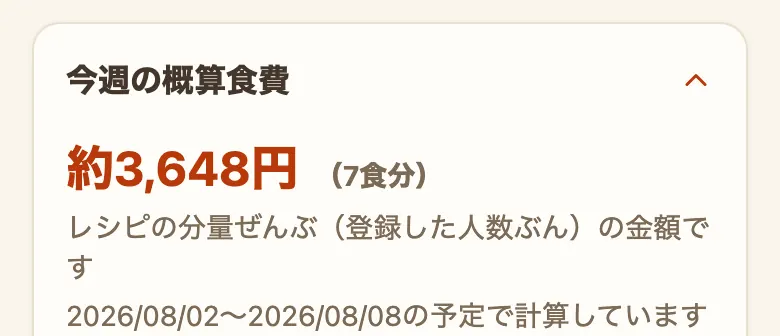
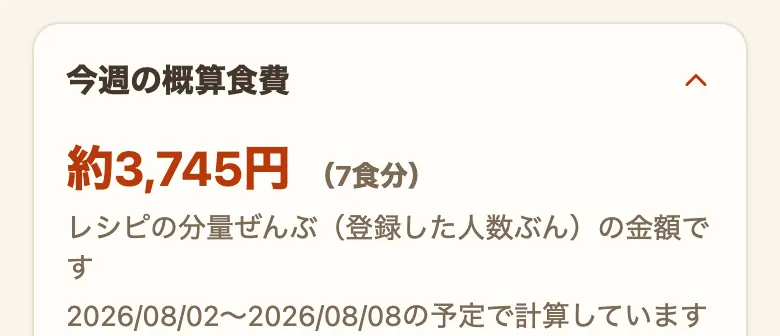
便CZ: about配下の修正一式(LP12件・説明書のCW/CY追随・スクショ6枚撮り直し)
紹介ページ(index.html) オーナー指示12件:
- ヒーローのリードを改行で「登録の入口」と「登録すると使えるもの」に分けた
- 「こんなとき、ありませんか」の3項目を見出しの1行だけにした(補足文を削除)
- 痛み1「前につくったあのレシピ、どこにやったっけ」/ 痛み2「今日のごはん、何カロリー？いくらかかった？」
- 「登録すると、できること」→「登録したレシピで、できること」(アカウント登録との混同回避)
- 調理中に「「タイマー」と声で言っても始められます」を明記(タップ限定にしない)
- 栄養の見出し→「栄養と材料費が自動計算でまるわかり」
- 「計算できなかった分は隠しません」→「計算に入れられなかった材料」(説明書の見出しと同語)
- 「まだまだ、あります」→「献立の提案、買い物メモ、記録をつける。他に機能がたくさん」
- 同セクションに「全部を使う必要はありません。必要な機能だけお使いいただけます」
- 無料側に50品上限を明記(いまは準備期間で上限なし・開始時は事前告知・基本レシピは数えない)
- 「データは、この端末の中に」→「データは、あなたの端末の中に」

使い方ページ(manual.html) 便CW/CYへの追随:
- 数値の「めやす」→「概算」に統一(§1・§4・§5。公的な基準値は「めやす」のまま)
- 「この日の献立ぶん」→「この日の献立」
- 「1日のめやすとくらべる」の並置UI廃止を反映(説明文1行「1日分のめやすは〜」)
- §5に「ごはんを含めて計算する」「食事ごとの内訳(Pro)」「「概算」と「めやす」の考え方」を追加
- §4に時間帯の視覚区分・行頭サムネ・空欄行を閉じる を追加、「この食事の今週分を空にする」
  →「この食事の予定をまとめて消す」(週タブ最下部の折りたたみ)へ改名・移設
- §7に売り場順のカスタム、§11に「まとめて削除する」、§13に無料50品上限と収録レシピの片づけ方
- §3に基本レシピを使わない場合の1行(まとめて削除で消せる・入れ直しで復活・記録は戻らない)

スクリーンショット: nutrition-row / nutrition-open / plan-week-nutrition-row /
plan-week-nutrition-open / plan-week-day / lp/plan-week-free を現UIで撮り直し
(shots-manual.mjs の読み上げ名セレクタが旧文言のままで空振りしていたのも修正。
週の対象日は野菜3桁g・主菜副菜が埋まった日を選ぶようにした)

検証: npx tsc -b / npm run build / npm test / e2e 1022件全通過(4291・console 0件)・
実DOM390pxで該当箇所を目視・4xx/5xxゼロ・禁止語0件

Changed region(s): [[0.1846, 0.4167, 0.5538, 0.5655]]

diff --git a/public/about/manual.html b/public/about/manual.html
@@ -585,7 +585,7 @@
       <li><strong>食材の在庫を持つ</strong>: よく使う食材を「ある・少ない・ない」の3段階でざっくり管理できます</li>
       <li><strong>料理中に使う</strong>: 手順を1つずつ大きく表示し、読み上げ・声での操作・複数同時のタイマーが使えます</li>
       <li><strong>作った記録を残す</strong>: 日付・人数・ひとことメモ・写真を残して、あとから振り返れます</li>
-      <li><strong>数字で見る</strong>: カロリーと野菜量のめやす、献立の概算食費が自動で出ます</li>
+      <li><strong>数字で見る</strong>: カロリーと野菜量の概算、献立の概算食費が自動で出ます</li>
     </ul>
 
     <h3>画面の見取り図</h3>
@@ -727,6 +727,7 @@
       <li>「基本レシピを一覧に表示しない」: 自分で登録したレシピだけを一覧に出したいとき</li>
       <li>「基本レシピを入れ直す」: 消したり編集したりした基本レシピを最初の状態に戻したいとき（自分で編集した基本レシピは上書きされます）</li>
     </ul>
+    <p class="muted">基本レシピを使わないときは、レシピ一覧の「選択」から<a href="#search">まとめて削除</a>もできます。消したあとでも「基本レシピを入れ直す」で戻せます（そのレシピに付けた「作った記録」は戻りません）。</p>
 
     <h3>レシピ集を追加で読み込む</h3>
     <p>レシピ集の配布がある場合には、設定の「レシピ」にある「レシピセットを読み込む」から、そのレシピ集（JSONファイル）を追加で読み込めます。URLからでも、端末に保存したファイルからでも読み込めます。</p>
@@ -763,9 +764,15 @@
     <p>表示は「週区切り」（月曜から日曜まで）と「今日から7日間」から選べます。「表示する食事（朝食・昼食・夕食）」で、使う食事だけを出せます。</p>
 
     <figure class="shot" style="--w:390px">
-      <img src="/about/img/manual/plan-week-day.webp" width="780" height="660" loading="lazy" decoding="async" alt="献立の「週」タブの1日ぶんのカード。日付と「今日」の印、夕食の主菜・副菜、料理を追加のボタン、その日の栄養のめやすの行、この日のメモの欄が並んでいる">
+      <img src="/about/img/manual/plan-week-day.webp" width="780" height="728" loading="lazy" decoding="async" alt="献立の「週」タブの1日ぶんのカード。日付と「今日」の印、色のついた夕食の囲みの中に主菜・副菜の行と料理を追加のボタン、その下にその日の献立のカロリー・塩分・野菜量の行、この日のメモの欄が並んでいる">
       <figcaption>「週」タブの1日ぶんのカード。サイコロのマークでその行だけ振り直せます</figcaption>
     </figure>
+
+    <ul class="feature-list">
+      <li><strong>朝食・昼食・夕食の見分け</strong>: 食事ごとに囲みで区切り、左に立てる線と地の色の濃さを変えています（夕食がいちばん濃い色です）</li>
+      <li><strong>行の先頭の小さな絵</strong>: 写真を登録したレシピは写真、写真のないレシピは料理のアイコンが出ます</li>
+      <li><strong>空いている行を閉じる</strong>: まだ何も入れていない主菜・副菜の行は「×」で閉じられます。献立は1件も消えず、「＋料理を追加」で戻せます</li>
+    </ul>
 
     <p><strong>「まとめて献立を立てる」</strong>を押すと、今週のまだ決まっていない日に主菜と副菜をまとめて入れます。</p>
     <ul class="feature-list">
@@ -775,7 +782,7 @@
     </ul>
     <p><strong>副菜は主菜のジャンル（和食・洋食・中華）に合わせて選びます。</strong>合うジャンルの副菜が無いときは、別ジャンルの品を入れて埋め、その品に「主菜と別ジャンル」と表示します。タップすると理由の説明が出ます。</p>
     <p class="muted">丼・麺・カレー・鍋の日は副菜を入れず、「一品で食事が完結する料理のため、副菜は入れていません（必要なら選べます）」と出ます。</p>
-    <p class="muted">朝食だけ、昼食だけをまとめて消したいときは「この食事の今週分を空にする」で食事（朝食・昼食・夕食）を選び、「空にする」を押します。消える件数と、ほかの食事の予定・作った記録が残ることを確かめてから実行できます。</p>
+    <p class="muted">朝食だけ、昼食だけをまとめて消したいときは、「週」タブのいちばん下にある<strong>「この食事の予定をまとめて消す」</strong>を開き、食事（朝食・昼食・夕食）を選んで「空にする」を押します。手で入れた予定も自動で入った予定も消えます。消える件数と、ほかの食事の予定・作った記録が残ることを確かめてから実行できます。</p>
 
     <h3>先週のくり返しと、マイ献立テンプレ</h3>
     <ul class="feature-list">
@@ -820,38 +827,49 @@
     <h2><span class="sec__num">5</span>栄養と食費</h2>
 
     <h3>無料で見られるのはカロリーと野菜量です</h3>
-    <p>レシピ詳細の「栄養価のめやす」の行に、その料理1食あたりの概算のエネルギー（kcal）が出ています。タップすると概算の野菜量（g）や注記も開きます。</p>
+    <p>レシピ詳細の「栄養価の概算」の行に、その料理1食あたりの概算のエネルギー（kcal）が出ています。タップすると概算の野菜量（g）や注記も開きます。</p>
 
     <figure class="shot" style="--w:390px">
-      <img src="/about/img/manual/nutrition-row.webp" width="780" height="184" loading="lazy" decoding="async" alt="レシピ詳細の「栄養価のめやす（4人分レシピの1食あたり）」の1行。エネルギーのkcalが出ていて、右端に開くための矢印が付いている">
-      <figcaption>レシピ詳細の「栄養価のめやす」の行（無料でお使いいただける表示）</figcaption>
+      <img src="/about/img/manual/nutrition-row.webp" width="780" height="184" loading="lazy" decoding="async" alt="レシピ詳細の「栄養価の概算（4人分レシピの1食あたり）」の1行。エネルギーのkcalが出ていて、右端に開くための矢印が付いている">
+      <figcaption>レシピ詳細の「栄養価の概算」の行（無料でお使いいただける表示）</figcaption>
     </figure>
 
-    <p>献立の「週」タブでは、各日のカードと週まとめに「この日の献立ぶん（1人分）」として、概算の約◯kcal・野菜約◯gが出ます。ここまでは無料でお使いいただけます。塩分相当量をふくむ8項目の表示は、Pro版の機能です。</p>
+    <p>献立の「週」タブでは、各日のカードと週まとめに「この日の献立（1人分）」として、概算の約◯kcal・野菜約◯gが出ます。ここまでは無料でお使いいただけます。塩分相当量をふくむ8項目の表示は、Pro版の機能です。</p>
 
     <figure class="shot" style="--w:390px">
-      <img src="/about/img/manual/plan-week-nutrition-row.webp" width="780" height="136" loading="lazy" decoding="async" alt="献立の「週」タブの1行。「この日の献立ぶん（1人分）」として、カロリーと野菜量が並んで出ている">
+      <img src="/about/img/manual/plan-week-nutrition-row.webp" width="780" height="136" loading="lazy" decoding="async" alt="献立の「週」タブの1行。「この日の献立（1人分）」として、カロリーと野菜量が並んで出ている">
       <figcaption>献立の「週」タブに出る1日ぶんの行（無料でお使いいただける表示）</figcaption>
     </figure>
 
     <h3>Pro版で開くと8項目が並びます<span class="pro-tag">Pro版</span></h3>
 
     <figure class="shot" style="--w:390px">
-      <img src="/about/img/manual/nutrition-open.webp" width="780" height="940" loading="lazy" decoding="async" alt="レシピ詳細の栄養価のめやすを開いた画面。エネルギー・たんぱく質・脂質・炭水化物・食物繊維・鉄・カルシウム・食塩相当量・野菜が、1人分と全量の2列で並んでいる">
-      <figcaption>Pro版で開いた「栄養価のめやす」。1人分と全量が並びます</figcaption>
+      <img src="/about/img/manual/nutrition-open.webp" width="780" height="940" loading="lazy" decoding="async" alt="レシピ詳細の栄養価の概算を開いた画面。エネルギー・たんぱく質・脂質・炭水化物・食物繊維・鉄・カルシウム・食塩相当量・野菜が、1人分と全量の2列で並んでいる">
+      <figcaption>Pro版で開いた「栄養価の概算」。1人分と全量が並びます</figcaption>
     </figure>
 
     <figure class="shot" style="--w:390px">
-      <img src="/about/img/manual/plan-week-nutrition-open.webp" width="780" height="800" loading="lazy" decoding="async" alt="献立の「週」タブで栄養のめやすを開いた画面。8項目の下に「1日のめやすとくらべる」として、塩分と野菜の数値がめやすと並べて出ている">
-      <figcaption>献立の栄養パネル。「1日のめやすとくらべる」で数字を並べて出します</figcaption>
+      <img src="/about/img/manual/plan-week-nutrition-open.webp" width="780" height="932" loading="lazy" decoding="async" alt="献立の「週」タブで栄養の概算を開いた画面。8項目と野菜が縦に並び、その下に「ごはん1杯（150g）を含めて計算する」のチェック、「1日分のめやすは、塩分7.5g（男性）・6.5g（女性）、野菜350gです。」の1行が続いている">
+      <figcaption>献立の栄養パネルをPro版で開いたところ。1日分のめやすは説明文で添えます</figcaption>
     </figure>
 
-    <h3>「めやす」の考え方</h3>
+    <p>朝食・昼食・夕食のうち2つ以上に料理が入っている日は、8項目の下に<strong>「食事ごとの内訳（1人分）」</strong>が出ます。1日の合計が、どの食事のぶんなのかを分けて見られます。</p>
+    <p class="muted">作った記録には食事（朝食・昼食・夕食）の区別がないため、過ぎた日には内訳が出ません。</p>
+
+    <h3>ごはんを含めて計算する</h3>
+    <p>献立に登録するのがおかずだけだと、合計は主食のぶん小さく出ます。栄養パネルを開いて<strong>「ごはん1杯（◯g）を含めて計算する」</strong>にチェックを入れると、料理の入っている食事にごはん1杯ぶんの栄養と材料費を足した概算になります。最初はOFFで、切り替えると次からも覚えています。</p>
     <ul class="feature-list">
-      <li>数値は材料と分量から自動計算した<strong>めやす</strong>です。調理による変化は反映していないため、実際の栄養価とは異なります。同じ食材でも品種・大きさ・部位で成分は変わります</li>
+      <li>丼・麺・カレー・鍋のように主食を含む料理が主菜の食事には、ごはんを足しません</li>
+      <li>「今週の概算食費」にも同時に効き、ごはんのぶんを含めた金額に「ごはん◯杯ぶん（約◯円）を含めた金額です」と添えて出します</li>
+    </ul>
+
+    <h3>「概算」と「めやす」の考え方</h3>
+    <p>自動計算した数字は<strong>「概算」</strong>、公的な基準の数字は<strong>「めやす」</strong>と書き分けています。</p>
+    <ul class="feature-list">
+      <li>数値は材料と分量から自動計算した<strong>概算</strong>です。調理による変化は反映していないため、実際の栄養価とは異なります。同じ食材でも品種・大きさ・部位で成分は変わります</li>
       <li><strong>野菜量</strong>は、材料に書かれた分量をそのままグラムに換算して合計した<strong>概算</strong>です（皮や種を除いた可食部の重さには直していません）。数に入れられない材料があるぶん、実際より少なめに出ることがあります</li>
-      <li>献立の栄養パネルでは、野菜量について公的な基準の数値を<strong>並べて</strong>表示します（「野菜 ◯g ／ めやす 350g」。Pro版では塩分にも同じ形のめやすが付きます）。<strong>数字を並べるだけ</strong>で、足りない・摂りすぎといった判定はしません。色で良し悪しを示すこともしません</li>
-      <li>献立の合計に出るのは<strong>献立に登録した料理ぶんだけ</strong>です。ごはん・飲みもの・おやつ・外食は入っていません。3食のうち夕食だけを登録している場合は、その1食ぶんの合計を1日のめやすと並べていることになります</li>
+      <li>献立の栄養パネルには、公的な基準の数値を<strong>説明文の1行</strong>で添えます（「1日分のめやすは、野菜350gです」。Pro版では塩分のめやすも入ります）。<strong>基準の数字を書くだけ</strong>で、足りない・摂りすぎといった判定はしません。色で良し悪しを示すこともしません</li>
+      <li>献立の合計に出るのは<strong>献立に登録したレシピぶんだけ</strong>です。飲みもの・おやつ・外食は入っていません（ごはんは「ごはん1杯を含めて計算する」にチェックを入れたときだけ入ります）。3食のうち夕食だけを登録している場合は、その1食ぶんの合計になります</li>
     </ul>
     <p class="muted">成分値の出典は日本食品標準成分表、めやすの出典は「日本人の食事摂取基準（2025年版）（厚生労働省）」と「健康日本21（第三次）（厚生労働省）」です。いずれも健康な大人の一般的なめやすで、治療中の方・妊娠中の方は主治医や管理栄養士の指示に従ってください。</p>
     <p class="muted">ビタミンは、調理による損失が大きく材料からの計算では実際と大きくズレやすいため表示していません。</p>
@@ -925,6 +943,10 @@
 
     <h3>売り場順に自動で並びます</h3>
     <p>買い物メモは、一般的なスーパーの導線に合わせて「野菜・きのこ → 肉・魚介 → 豆腐・卵・乳 → 主食・粉 → 調味料 → その他」の順に自動で並びます。並べ替えの操作は要りません。</p>
+
+    <h4>いつも回る順番に合わせる</h4>
+    <p>お店によって売り場の並びは違うので、6つのまとまりの順番は入れ替えられます。買い物メモの<strong>「売り場順を変える」</strong>を押すと、設定の「買い物メモの売り場順」へ移ります。上下のボタンで並べ替え、「既定の順番に戻す」で最初の順番に戻せます。</p>
+    <p class="muted">入れ替えるのはまとまりの順番だけで、どの食材がどのまとまりに入るかは変わりません。</p>
 
     <figure class="shot" style="--w:390px">
       <img src="/about/img/manual/shopping.webp" width="780" height="1080" loading="lazy" decoding="async" alt="買い物メモの画面。キャベツ・ピーマン・にんにく・玉ねぎ・長ねぎ・しょうがと野菜が続いたあとに豚バラ薄切り肉が並び、売り場順になっている">
@@ -1096,6 +1118,10 @@
     </ul>
     <p class="muted">カロリー順の並べ替えは無料で使えます。たんぱく質が多い順・塩分が低い順などはPro版の機能です。</p>
 
+    <h3>まとめて削除する</h3>
+    <p>「レシピ」タブの<strong>「選択」</strong>を押すと選択モードになり、レシピをタップ（長押しでも選べます）して複数選べます。「全選択」「選択解除」も使えます。選び終わったら「選択したレシピ◯品を削除」を押します。</p>
+    <p>確認では、<strong>消えるもの</strong>（レシピ・作った記録とその写真・献立の予定・今日の献立）と<strong>残るもの</strong>（ほかのレシピ・買い物メモ・食材の在庫）を、それぞれ件数つきでお伝えします。基本レシピが入っているときは、設定の「基本レシピを入れ直す」で戻せることも一緒に出ます。</p>
+
     <h3>お気に入りとNG食材</h3>
     <p>レシピ詳細のハートで「お気に入りに追加」できます。ホームの条件チップや一覧の絞り込みから、お気に入りだけを見られます。</p>
     <p>設定の「NG食材（アレルギー・苦手）」に食材を登録すると、それを含むレシピに警告マークが付きます（「豚」で「豚肉」「豚バラ」もヒットします）。一覧から隠すこともできます。</p>
@@ -1198,7 +1224,7 @@
 
     <h3>無料で使えること</h3>
     <ul class="feature-list">
-      <li>収録レシピ100品以上</li>
+      <li>収録レシピ100品以上（使わないときは<a href="#search">まとめて削除</a>で消せます。「基本レシピを入れ直す」で戻せます）</li>
       <li>レシピの登録（手入力・まとめて入力・テキスト貼り付け・URLから取り込む・写真）</li>
       <li>「日」「週」の献立、まとめて献立を立てる、先週のコピー、マイ献立テンプレ、日付メモ、週の献立表の印刷・画像保存</li>
       <li>買い物メモ・食材の在庫</li>
@@ -1208,9 +1234,14 @@
       <li>バックアップの書き出しと読み込み</li>
     </ul>
 
+    <p class="note">
+      <strong>無料で登録できるレシピは50品までです</strong>
+      いまは準備期間のため、上限をかけていません。上限を設けるときは、事前にこのページと紹介ページでお知らせします。最初から入っている基本レシピは、この50品に数えません。
+    </p>
+
     <h3>Pro版（買い切り）で使えるようになること</h3>
     <ul class="feature-list">
-      <li><strong>レシピの登録数の上限なし</strong>（いまは無料でも登録できる件数に上限はありません。将来上限を設ける場合は、事前にこのページと紹介ページでお知らせします）</li>
+      <li><strong>レシピの登録数の上限なし</strong>（無料の50品の上限がなくなり、何品でも登録できます）</li>
       <li><strong>栄養価の8項目表示</strong>（無料のカロリーに加えて、たんぱく質・脂質・炭水化物・食物繊維・鉄・カルシウム・食塩相当量）と、「栄養価で探す」の並べ替え</li>
       <li><strong>月間の献立</strong>（カレンダー表示・未定の日をまとめて提案・期間の栄養と食費・1か月分の献立表の印刷・画像保存）</li>
       <li><strong>並行調理ナビ</strong></li>

diff --git a/public/about/index.html b/public/about/index.html
@@ -246,15 +246,11 @@
     border-radius: 12px;
     padding: 12px 14px;
   }
+  /* 2026-08-02 オーナー指示: 各項目は見出しの1行だけにした(補足文は置かない) */
   .pains b {
     display: block;
-    margin-bottom: 4px;
     font-size: 15px;
     color: var(--accent-ink);
-  }
-  .pains span {
-    font-size: 14px;
-    color: var(--text-muted);
   }
 
   /* ===== 網羅グリッド(献立まわりだけ大きい1枠) ===== */
@@ -411,7 +407,7 @@
   <p class="top-label">ブラウザで開くだけ。インストールも会員登録もいりません</p>
 
   <h1>レシピを集めて登録。<br>できることが増える。</h1>
-  <p class="lead">ネットで見つけたレシピはURLを貼るだけ。家で作ってきた味は、手入力やまとめて入力で。うちレシピに登録すると、調理中の大きな手順表示・カロリーと材料費の概算・献立と買い物メモまで、そのレシピで使えるようになります。</p>
+  <p class="lead">ネットで見つけたレシピはURLを貼るだけ。家で作ってきた味は、手入力やまとめて入力で。<br>うちレシピに登録すると、調理中の大きな手順表示・カロリーと材料費の概算・献立と買い物メモまで、そのレシピで使えるようになります。</p>
   <ul class="three-zero">
     <li>広告なし</li>
     <li>会員登録なし</li>
@@ -429,18 +425,9 @@
   <section class="sec">
     <h2>こんなとき、ありませんか</h2>
     <ul class="pains">
-      <li>
-        <b>作りたいレシピが、また探すところから</b>
-        <span>ブックマークやリンクはたまるのに、作りたい日に限って、どれだったか分からなくなる。</span>
-      </li>
-      <li>
-        <b>いくらかかるのか、あとになって分かる</b>
-        <span>今日の1食がいくらぐらいで、どれくらいのカロリーなのかは、作ってからでないと見当がつかない。</span>
-      </li>
-      <li>
-        <b>手が濡れていて、スマホにさわれない</b>
-        <span>画面はすぐ暗くなるし、文字は小さいし、いま何番目の手順だったかを見失う。</span>
-      </li>
+      <li><b>前につくったあのレシピ、どこにやったっけ</b></li>
+      <li><b>今日のごはん、何カロリー？いくらかかった？</b></li>
+      <li><b>手が濡れていて、スマホにさわれない</b></li>
     </ul>
     <p class="muted">うちレシピは、レシピを1か所に登録するところから始めて、この3つをまとめて引き受けます。</p>
   </section>
@@ -476,7 +463,7 @@
   </section>
 
   <section class="sec">
-    <p class="eyebrow">登録すると、できること 1</p>
+    <p class="eyebrow">登録したレシピで、できること 1</p>
     <h2>調理中に、見やすい。</h2>
     <p>登録したレシピは、調理中モードで開けます。手順が1つずつ大きな文字で出るので、少し離れたところからでも読めます。</p>
 
@@ -493,8 +480,8 @@
 
     <ul class="feature-list">
       <li><strong>手順の拡大表示</strong>: 1画面に1手順。いま何番目かが分かります</li>
-      <li><strong>タップでタイマー</strong>: 手順の中の「15分」を押すとタイマーが始まります。煮ている間に別のタイマーも足せます</li>
-      <li><strong>声で操作・読み上げ</strong>: 「次」と言うと次の手順へ進みます。手順を読み上げることもできます</li>
+      <li><strong>タイマー</strong>: 手順の中の「15分」を押すとタイマーが始まります。「タイマー」と声で言っても始められます。煮ている間に別のタイマーも足せます</li>
+      <li><strong>声で操作・読み上げ</strong>: 「次」で次の手順へ、「タイマー」で時間をはかります。手順を読み上げることもできます</li>
       <li><strong>画面が暗くならない</strong>: 調理中モードの間は、画面の自動消灯を止めます</li>
     </ul>
     <a class="more" href="/about/manual.html#cookmode">調理中モードをくわしく →</a>
@@ -502,8 +489,8 @@
   </section>
 
   <section class="sec">
-    <p class="eyebrow">登録すると、できること 2</p>
-    <h2>栄養と材料費が、自動でそろう。</h2>
+    <p class="eyebrow">登録したレシピで、できること 2</p>
+    <h2>栄養と材料費が自動計算でまるわかり</h2>
     <p>材料を入れておくと、1食あたりのカロリーと材料費が概算で出ます。作る前に、だいたいの数字が分かります。</p>
 
     <figure class="shot" style="--w: 390px;">
@@ -511,7 +498,7 @@
       <figcaption>材料費は全体と1食あたりの両方が出ます</figcaption>
     </figure>
     <figure class="shot" style="--w: 390px;">
-      <img src="/about/img/manual/nutrition-row.webp" width="780" height="176" loading="lazy" decoding="async" alt="レシピ詳細の「栄養価のめやす（4人分レシピの1食あたり）: 563kcal」の1行">
+      <img src="/about/img/manual/nutrition-row.webp" width="780" height="184" loading="lazy" decoding="async" alt="レシピ詳細の「栄養価の概算（4人分レシピの1食あたり）: 563kcal」の1行">
       <figcaption>カロリーは1食あたりで出ます</figcaption>
     </figure>
 
@@ -519,15 +506,16 @@
       <li><strong>カロリーの概算</strong>: 文部科学省「日本食品標準成分表」の数値をもとに計算します</li>
       <li><strong>野菜量の概算</strong>: 献立に入れた料理から、その日の野菜のグラム数も出ます</li>
       <li><strong>材料費の概算</strong>: 食材の価格から計算します。価格は自分の買っている値段に書き換えられます</li>
-      <li><strong>計算できなかった分は隠しません</strong>: 数えられなかった材料がある料理は、その旨を添えて出します</li>
+      <li><strong>計算に入れられなかった材料</strong>: 数えられなかった材料がある料理は、その旨を添えて出します</li>
     </ul>
     <a class="more" href="/about/manual.html#nutrition">栄養と食費をくわしく →</a>
     <p class="muted" style="margin-top: 10px;">数字はどれも概算です。実際の食材や分量によって変わります。</p>
   </section>
 
   <section class="sec">
-    <p class="eyebrow">登録すると、できること 3</p>
-    <h2>まだまだ、あります。</h2>
+    <p class="eyebrow">登録したレシピで、できること 3</p>
+    <h2>献立の提案、買い物メモ、記録をつける。他に機能がたくさん</h2>
+    <p>全部を使う必要はありません。必要な機能だけお使いいただけます。</p>
 
     <div class="grid">
       <div class="wide">
@@ -535,7 +523,7 @@
         <p>「日」「週」の献立を組めます。決まっていない日は、まとめて提案させることもできます。献立に入れた料理の材料は買い物メモに集まり、スーパーの売り場順に並びます。在庫で「ある」にした食材は下書きに出ないので、二度買いを避けられます。週の概算食費も出ます。</p>
         <div class="shots" style="margin-top: 10px;">
           <figure class="shot" style="--w: 370px;">
-            <img src="/about/img/lp/plan-week-free.webp" width="740" height="660" loading="lazy" decoding="async" alt="献立の「週」タブの1日ぶんのカード。日付と「今日」の印、夕食の主菜と副菜、料理を追加のボタン、その日の献立ぶんのカロリーと野菜量、この日のメモの欄が並んでいる">
+            <img src="/about/img/lp/plan-week-free.webp" width="740" height="696" loading="lazy" decoding="async" alt="献立の「週」タブの1日ぶんのカード。日付、色のついた夕食の囲みの中に主菜と副菜、料理を追加のボタン、その日の献立のカロリーと野菜量、この日のメモの欄が並んでいる">
             <figcaption>週の献立。1日ぶんのカードが7日並びます</figcaption>
           </figure>
           <figure class="shot" style="--w: 390px;">
@@ -603,7 +591,7 @@
   </section>
 
   <section class="sec">
-    <h2>データは、この端末の中に。</h2>
+    <h2>データは、あなたの端末の中に。</h2>
     <p>登録したレシピ・記録・写真は、お使いの端末の中だけに保存されます。開発者のサーバーには送られません。会員登録もログインもないので、メールアドレスを預ける必要もありません。</p>
 
     <h3>どれくらいの容量を使うか</h3>
@@ -628,13 +616,18 @@
     <h2>ここまでの機能は、すべて無料です。</h2>
     <p class="free-line">レシピの登録も、調理中モードも、栄養と材料費の概算も、献立と買い物メモも、バックアップも。期間の制限はありません。広告は表示しません。</p>
 
+    <p class="note">
+      <strong>無料で登録できるレシピは50品までです</strong>
+      いまは準備期間のため、上限をかけていません。上限を設けるときは、事前にこのページと使い方ページでお知らせします。最初から入っている基本レシピは、この50品に数えません。
+    </p>
+
     <h3>さらにできること（買い切り版）<span class="pro-tag">Pro版</span></h3>
     <ul class="feature-list">
       <li><strong>栄養価の8項目表示と「栄養価で探す」</strong>: たんぱく質・脂質・炭水化物・食物繊維・鉄・カルシウム・食塩相当量まで見られます。栄養価での並べ替えもできます</li>
       <li><strong>月間の献立</strong>: カレンダーで1か月を見渡せます。未定の日をまとめて提案、月の食費と栄養のまとめ、1か月分の献立表の印刷・画像保存も使えます</li>
       <li><strong>並行調理ナビ</strong>: 2〜3品を選ぶと、待ち時間の長い工程を先にした「1本の段取り」にまとめます</li>
       <li><strong>目的から組む</strong>: 「たんぱく質を多めに」「塩分をひかえめに」を選んで献立を組めます</li>
-      <li><strong>レシピの登録数の上限なし</strong>: いまは無料でも登録できる件数に上限はありません。上限を設けるときは、事前にこのページと使い方ページでお知らせします</li>
+      <li><strong>レシピの登録数の上限なし</strong>: 無料の50品の上限がなくなり、何品でも登録できます</li>
     </ul>
 
     <div class="shots">
